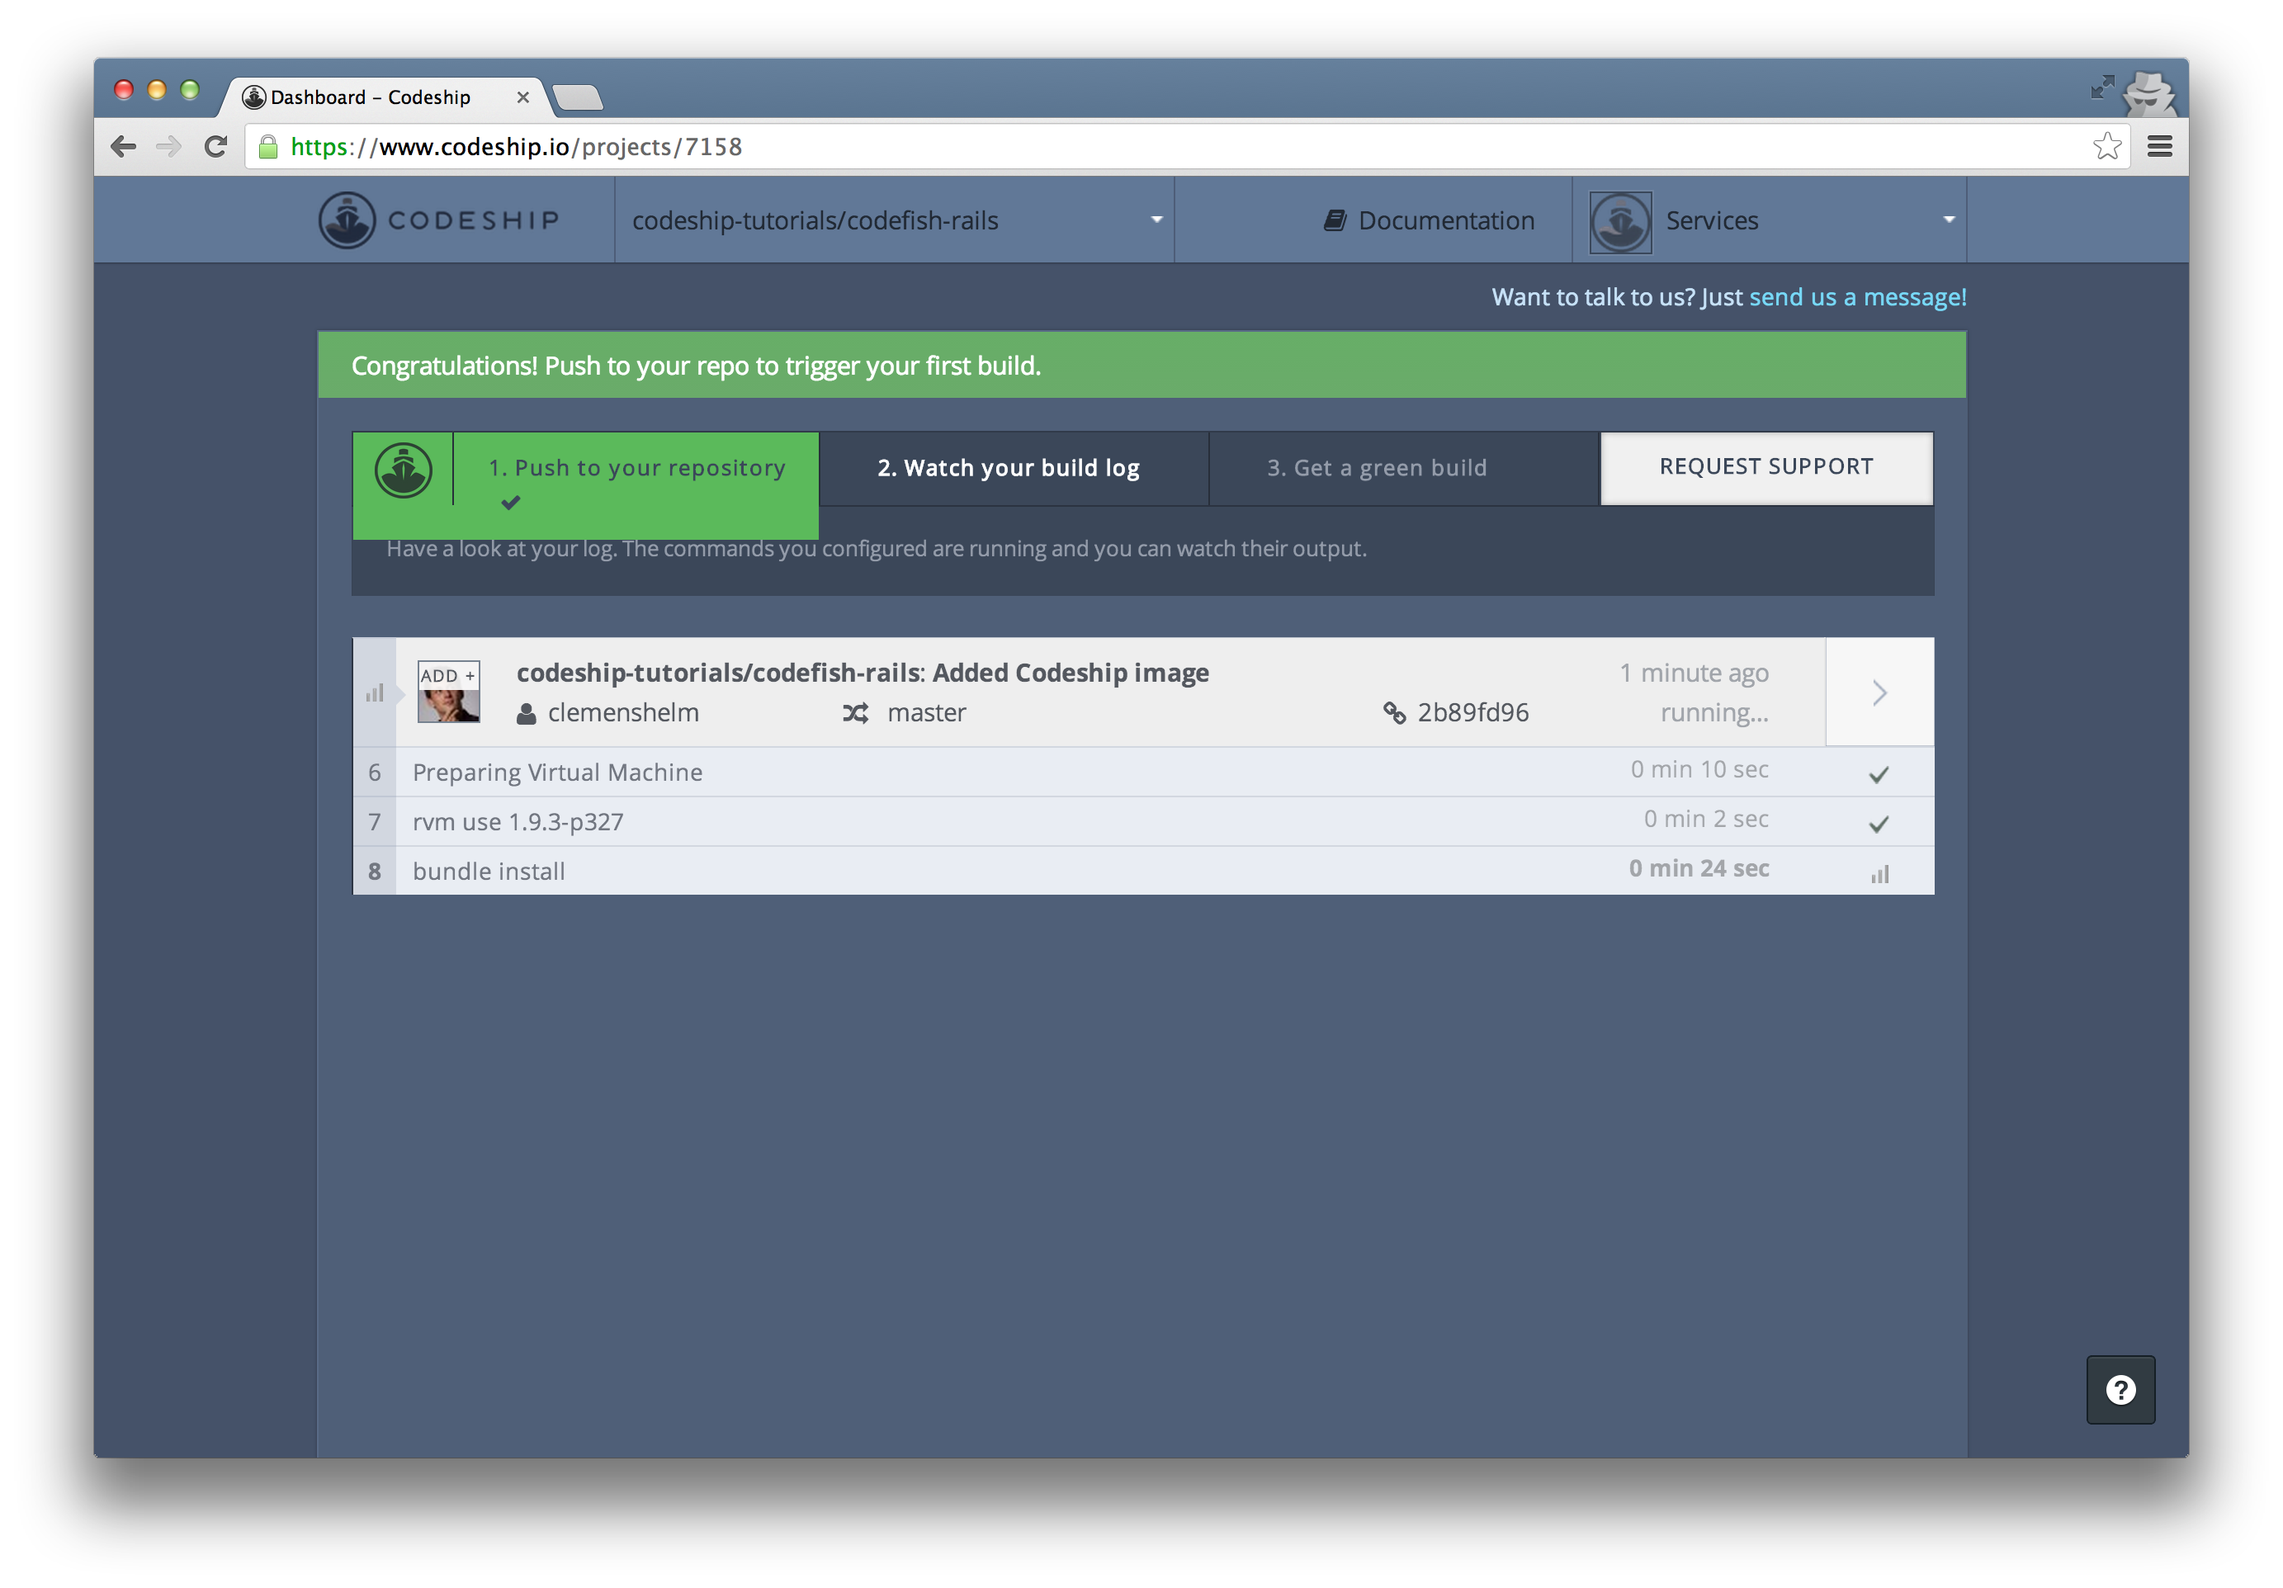
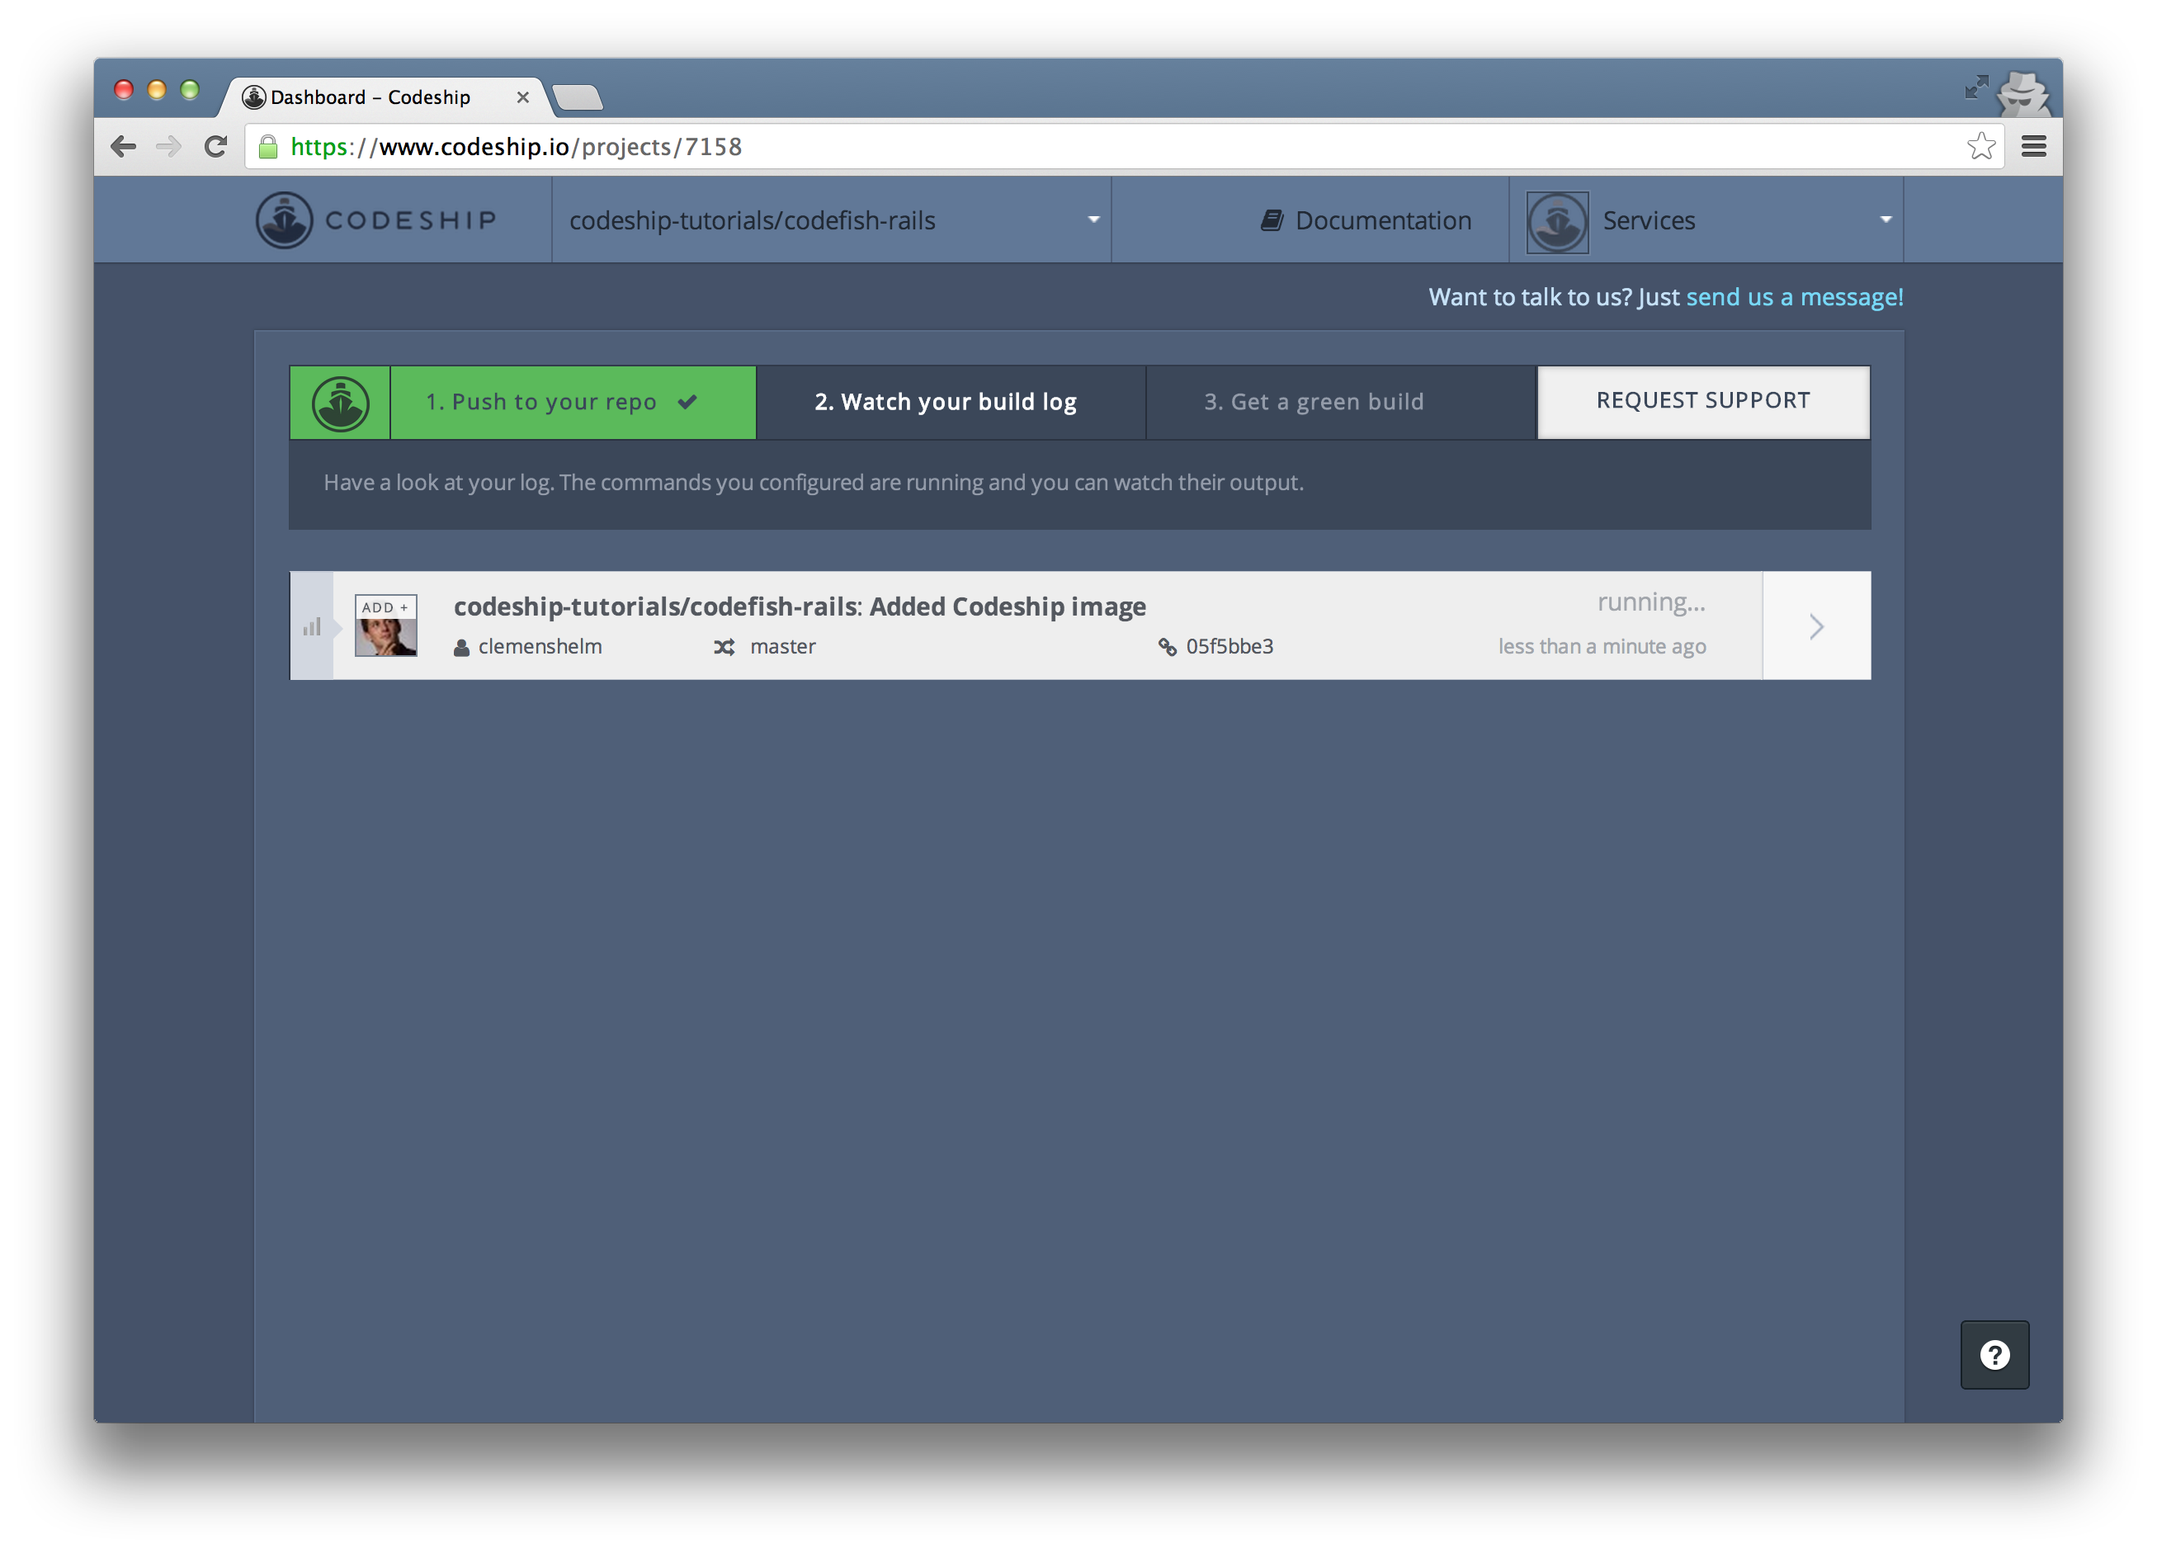
Updated build screenshots.

Changed region(s): [[0.031, 0.0308, 0.9606, 0.5855], [0.8986, 0.8321, 0.9606, 0.9245], [0.031, 0.8937, 0.062, 0.9245]]

diff --git a/rails/github/heroku/storyboard.md b/rails/github/heroku/storyboard.md
@@ -57,7 +57,9 @@ This triggered a new build on the Codeship.
 
 ![Codeship running build](../screenshots/first-build-running.png)
 
-When we go to the build details, we follow the running build.
+When we go to the build details, we can follow the running build.
+
+![Codeship running build details](../screenshots/first-build-running-details.png)
 
 And a few seconds later, our build succeeded! Great!
 
